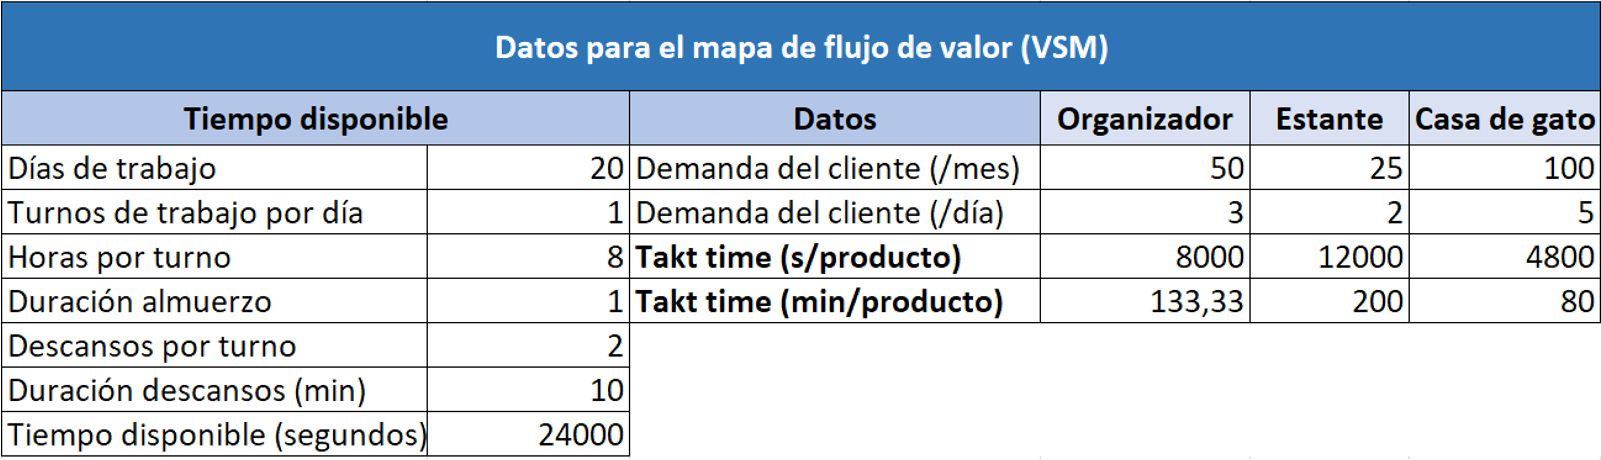
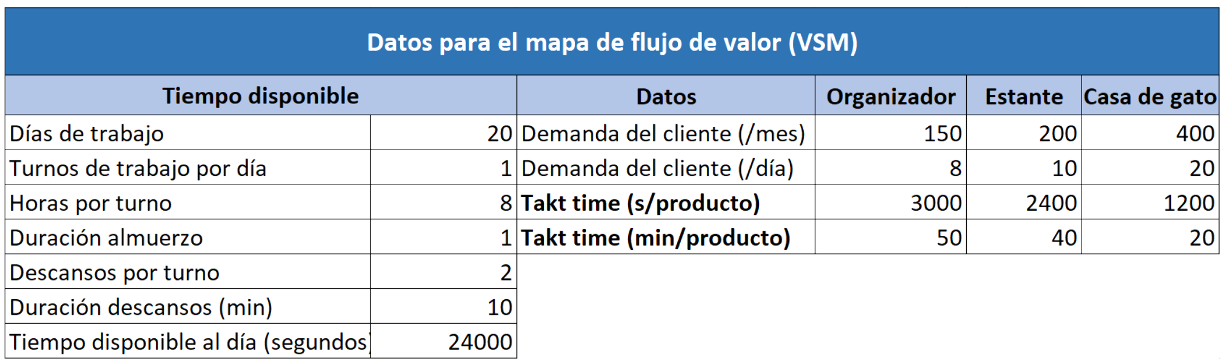
:package: gestion de produccion

diff --git a/temp/html/gestionProduccion.html b/temp/html/gestionProduccion.html
@@ -324,7 +324,7 @@
 
                             <!-- Diagrama VSM -->
                             <p class="text-[15px] leading-7 text-dark-light">
-                                <b>Construcción del diagrama VSM</b>
+                                <b>Cálculos generales: Demanda, Takt Time</b>
                                 </br> 
                                 Se realizan los cálculos del tiempo disponible en la planta de producción, teniendo en cuenta la cantidad de turnos al día, días de trabajo, tiempos de descanso, entre otros.
                                 </br>
@@ -339,6 +339,14 @@
                                 </br> 
                                 Se puede ver que el tiempo disponible por día son 24000 segundos o 6.67 horas.
                                 </br>
+                                Se calcula la cantidad de tableros exactos para cada lote de producción al mes, según la demanda de cada producto:
+                                </br>
+                                <img src="assets/images/modulos/gestionproduccion/tablasalmes.png" alt="" width="300"/>
+                            </p>
+
+                            <p class="text-[15px] leading-7 text-dark-light">
+                                <b>Productos-Procesos</b>
+                                </br> 
                                 Además, se genera la tabla de procesos necesarios para la producción de cada artículo. Con esto se tiene una clasificación adecuada de los productos, los cuáles comparten más del 70% de los procesos.
                             </p>
 
@@ -347,18 +355,98 @@
                             </div>
 
                             <p class="text-[15px] leading-7 text-dark-light">
+                                <b>Disponibilidad</b>
+                                </br> 
+                                Se investiga sobre la disponibilidad de cada máquina a usar durante la producción; para esto se investiga sobre la industria de madera en artículos o páginas de proveedores, con esto se puede definir una disponibilad teórica. Se usan las siguentes fórmulas:
+                            </p>
+                            <div>
+                                <img src="assets/images/modulos/gestionproduccion/formula1.png" alt="" width="500"/>
+                            </br>
+                                <img src="assets/images/modulos/gestionproduccion/formula2.png" alt="" width="500"/>
+                            </div>
+
+                            <p class="text-[15px] leading-7 text-dark-light">
+                                </br> 
+                                Se calcula la disponibilidad de las máquinas de los procesos:
+                            </p>
+
+                            <div>
+                                <img src="assets/images/modulos/gestionproduccion/disponibilidadprocesos.png" alt="" />
+                            </div>
+
+                            <p class="text-[15px] leading-7 text-dark-light">
+                            </br> 
+                            Los datos para los cálculos son obtenidos de las siguientes referencias:
+                            </br>
+                            - <a href="https://8pfs.short.gy/DDXFfT" class="text-green" target="_blank">Sierra</a>
+                            </br>
+                            - <a href="http://tangara.uis.edu.co/biblioweb/tesis/2015/157836.pdf" class="text-green" target="_blank">Fresadora CNC</a>
+                            </br>
+                            - <a href="https://www.woodworkhubby.com/how-long-do-router-bits-last/" class="text-green" target="_blank">Router para madera</a>
+                            </br>
+                            - <a href="https://labois.com/madera/limas-escofinas-carpinteria-madera/" class="text-green" target="_blank">Limas para madera</a>
+                            </br>
+                            - <a href="https://powdertronic.com/principales-partes-y-mantenimiento-de-una-pistola-para-pintar/" class="text-green" target="_blank">Barnizado</a>
+                            </br>
+                            - <a href="https://www.dempro.co/post/cada-cuanto-se-deben-hacer-los-mantenimientos-en-los-robots-kuka" class="text-green" target="_blank">Robot KUKA</a>
+                            </p>
+
+                            <p class="text-[15px] leading-7 text-dark-light">
+                                <b>Diagrama VSM</b>
+                            </p>
+
+                            <p class="text-[15px] leading-7 text-dark-light">
                             Con estos datos se procede a realizar el digrama VSM o Value Stream Mapping, contando con la información de la demanda, tiempos de los procesos previamente mostrados <a href="https://github.com/PurpleWood-APM/Documentacion-Proyecto/blob/main/gestion-produccion/TiemposEstimadosProduccion.md" class="text-green" target="_blank">(Documento tiempos estimados por proceso) </a>, disponibilidad de las máquinas para cada proceso y los diagramas de flujo detallados para cada producto <a href="https://github.com/PurpleWood-APM/Documentacion-Proyecto/tree/main/gestion-produccion/esquemas-SeleccionDeProductos" class="text-green" target="_blank">(Diagramas de flujo)</a>.
                             </p>
 
 
                             <div>
-                                <img src="assets/images/modulos/gestionproduccion/VSM.png" class="rounded-2xl" alt="" />
+                                <a href="https://lucid.app/lucidchart/22ce5c2b-ee08-4e71-a5f5-4fa62de4c11d/edit?viewport_loc=-34%2C27%2C3483%2C1503%2C0_0&invitationId=inv_8d96285d-1d1e-4bef-90a1-d884c3b4282a" target="_blank"><img src="assets/images/modulos/gestionproduccion/VSM.png" class="rounded-2xl" alt="" /></a>
+                                <a href="https://lucid.app/lucidchart/22ce5c2b-ee08-4e71-a5f5-4fa62de4c11d/edit?viewport_loc=-34%2C27%2C3483%2C1503%2C0_0&invitationId=inv_8d96285d-1d1e-4bef-90a1-d884c3b4282a" class="text-green" target="_blank">Click para ver con mayor detalle</a>
                             </div>
 
                             <p class="text-[15px] leading-7 text-dark-light">
                                 Se identifican momentos clave para el inventario de productos intermedios necesarios para otros procesos posteriores e inventario de los productos terminados. Además, se encuentran el tiempo o plazo total de producción LT = 21 minutos y el tiempo de valor añadido VA = 33 horas.
                             </p>
-                            
+
+                            <!-- KPI -->
+                            <div class="border-l-4 border-green pl-6">
+                                <h3 class="font-semibold text-[22px] leading-9">KPIs</h3>
+                            </div>
+                            <div class="space-y-6">
+                                <p class="text-[15px] leading-7 text-dark-light">
+                                    En la siguiente tabla se presentan los indicadores clave de desempeño que se tendrán en cuenta en la planta de producción:
+                                </p>
+                                <img src="assets/images/modulos/gestionproduccion/KPIs.png" alt="" />
+                            </div>
+
+                            <!-- Simulaciones -->
+                            <div class="border-l-4 border-green pl-6">
+                                <h3 class="font-semibold text-[22px] leading-9">Simulaciones</h3>
+                            </div>
+                            <div class="space-y-6">
+                                <p class="text-[15px] leading-7 text-dark-light">
+                                    <b>Process Analysis</b>
+                                </p>
+                                <p class="text-[15px] leading-7 text-dark-light">
+                                    Se realiza la simulación de los proceos de produciión en el software Process Analysis, en el cuál se registran los procesos con características ya registradas en <a href="https://github.com/PurpleWood-APM/Documentacion-Proyecto/blob/main/gestion-produccion/TiemposEstimadosProduccion.md" class="text-green" target="_blank">Documento tiempos estimados por proceso </a> y <a href="https://github.com/PurpleWood-APM/Documentacion-Proyecto/blob/main/gestion-produccion/DiagramaVSM.md" class="text-green" target="_blank">Cálculos para el diagrama VSM</a>.
+                                </p>
+                                <img src="assets/images/modulos/gestionproduccion/processanalysis.png" alt="" />
+                                <img src="assets/images/modulos/gestionproduccion/processanalysis2.png" alt="" />
+
+                                <p class="text-[15px] leading-7 text-dark-light">
+                                    Por problemas técnicos con el software, se realiza la correspondiente simulación en Tecnomatix.
+                                </p>
+
+                                <p class="text-[15px] leading-7 text-dark-light">
+                                    <b>Tecnomatix</b>
+                                </p>
+                                <img src="assets/images/modulos/gestionproduccion/teknomatix.png" alt="" />
+
+                                <p class="text-[15px] leading-7 text-dark-light">
+                                    Se realiza el diseño de la planta preliminar en Tecnomatix, para poder realizar simulaciones y análisis del rendimiento, además de tener una perspectiva visual del espacio de la planta. <a href="https://github.com/PurpleWood-APM/Documentacion-Proyecto/blob/main/gestion-produccion/Planta.spp" class="text-green" target="_blank">(Archivo de Tecnomatix) </a>
+                                </p>
+                            </div>
 
                             <!-- Sistema MES -->
                             <div class="border-l-4 border-green pl-6">
@@ -375,6 +463,9 @@
                                     Para llevar información de la planta al sistema MES, se recogen datos desde los PLCs, el sistema SCADA, y la información proveniente del sistema IoT de la planta. Esto se logra mediante APIs y tarjetas como microcontroladores o tarjetas como raspberry pi.
                                 </p>
                             </div>
+
+                            <!-- Rubrica -->
+                            <!--
                             <div class="space-y-6">
                                 <p class="text-[15px] leading-7 text-dark-light">
                                     Gestión de Producción y Automatización:
@@ -386,7 +477,8 @@
                                 • Propuesta de cómo llevar información de la planta a un sistema MES.
                                 </p>
                             </div>
-                            
+                            -->
+                            <!-- Rubrica -->
                             
                         </div>
                     </div>
